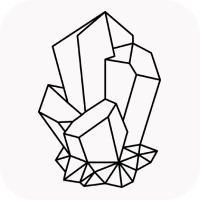
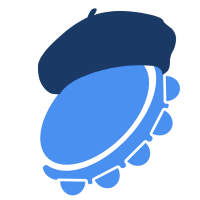
Quartz sync: Jul 16, 2025, 11:34 AM

diff --git a/content/TimpaniUmbra/index.md b/content/TimpaniUmbra/index.md
@@ -1,3 +1,8 @@
+---
+title: TimpaniUmbra
+aliases:
+  - TimpaniUmbra
+---
 This is my truest form, so to speak!  I play a **lot** of games, and I have a lot of fun talking about them and sharing my thoughts and experiences with others.  I love finding new ways to express myself too, like learning art and technical skills as I go.  I'm most often on Twitch and Bluesky, though I'll often find other places to yap as well!
 
 ## Inspiration

diff --git a/content/AU Showcase - Mafia/index.md b/content/AU Showcase - Mafia/index.md
@@ -1,5 +1,7 @@
 ---
 title: AU Showcase - Mafia
+aliases:
+  - AU Showcase - Mafia
 ---
 *Among a city filled with the scars of rivalry, conflict, and possibly the esoteric, one figure's made their claim by helping everyone.  All they ask for?  Knowledge, and a good show.*
 

diff --git a/content/Final Fantasy XIV/OC Showcase - Tyym Paanih/index.md b/content/Final Fantasy XIV/OC Showcase - Tyym Paanih/index.md
@@ -1,5 +1,7 @@
 ---
 title: OC Showcase - Tyym Paanih
+aliases:
+  - OC Showcase - Tyym Paanih
 ---
 *While the Warrior of Light is out saving the realm, a bard takes her own path to find her Lifesong.  Sometimes she helps the Scions, and sometimes she just does her own thing.  As long as she can help others and find the music in the world, she's happy.*
 

diff --git a/content/Final Fantasy XIV/index.md b/content/Final Fantasy XIV/index.md
@@ -1,5 +1,7 @@
 ---
 title: Final Fantasy XIV
+aliases:
+  - Final Fantasy XIV
 ---
 Final Fantasy XIV has meant so much to me since I started it in 2021.  During a time where I wasn't at my greatest, it helped me to find myself, figure out more of who I was, create community, and push myself in ways I didn't think I could have before.
 

diff --git a/content/index.md b/content/index.md
@@ -1,5 +1,7 @@
 ---
 title: Timpani's Grand Concert
+aliases:
+  - Timpani's Grand Concert
 ---
 Hi hi hi hi!!  Welcome to my concert!!
 